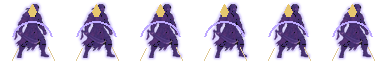
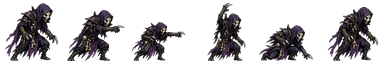
Redo gu mo enemy sprites

diff --git a/tools/cut_task41_gu_mo_sheet.py b/tools/cut_task41_gu_mo_sheet.py
@@ -1,0 +1,134 @@
+#!/usr/bin/env python3
+from pathlib import Path
+from PIL import Image
+
+ROOT = Path(__file__).resolve().parents[1]
+SRC = ROOT / "assets/source/task41/gu_mo_anim_sheet_v1.png"
+ATTACK_SRC = ROOT / "assets/source/task41/gu_mo_attack_sheet_v1.png"
+OUT_DIR = ROOT / "assets/characters/enemies/gu_mo"
+
+FRAME_BOXES = {
+    "idle": [
+        (208, 86, 526, 492),
+        (684, 104, 958, 492),
+        (1156, 86, 1428, 492),
+        (1596, 120, 1938, 492),
+    ],
+    "attack": [
+        (8, 330, 342, 690),
+        (360, 342, 718, 690),
+        (710, 342, 1148, 690),
+        (1104, 260, 1412, 690),
+        (1396, 410, 1768, 690),
+        (1734, 340, 2048, 694),
+    ],
+    "hurt": [
+        (348, 1088, 654, 1444),
+        (834, 1062, 1158, 1444),
+        (1248, 1122, 1582, 1444),
+    ],
+    "death": [
+        (126, 1564, 510, 1870),
+        (514, 1620, 964, 1870),
+        (966, 1682, 1488, 1888),
+        (1498, 1632, 1954, 1888),
+    ],
+}
+
+
+def white_to_alpha(im):
+    im = im.convert("RGBA")
+    px = im.load()
+    for y in range(im.height):
+        for x in range(im.width):
+            r, g, b, a = px[x, y]
+            dist = max(0, 255 - min(r, g, b))
+            if r > 248 and g > 248 and b > 248:
+                px[x, y] = (r, g, b, 0)
+            elif r > 242 and g > 242 and b > 242:
+                px[x, y] = (r, g, b, min(a, dist * 5))
+    return im
+
+
+def remove_small_fragments(im, min_area=20):
+    alpha = im.getchannel("A")
+    w, h = im.size
+    pix = alpha.load()
+    seen = set()
+    comps = []
+    for y in range(h):
+        for x in range(w):
+            if pix[x, y] <= 8 or (x, y) in seen:
+                continue
+            stack = [(x, y)]
+            seen.add((x, y))
+            pts = []
+            while stack:
+                px, py = stack.pop()
+                pts.append((px, py))
+                for nx in (px - 1, px, px + 1):
+                    for ny in (py - 1, py, py + 1):
+                        if nx < 0 or ny < 0 or nx >= w or ny >= h or (nx, ny) in seen:
+                            continue
+                        if pix[nx, ny] > 8:
+                            seen.add((nx, ny))
+                            stack.append((nx, ny))
+            comps.append(pts)
+    keep = set()
+    for pts in comps:
+        if len(pts) >= min_area:
+            keep.update(pts)
+    out = Image.new("RGBA", im.size, (0, 0, 0, 0))
+    src = im.load()
+    dst = out.load()
+    for x, y in keep:
+        dst[x, y] = src[x, y]
+    return out
+
+
+def strip_edge_alpha(im):
+    px = im.load()
+    w, h = im.size
+    for x in range(w):
+        px[x, 0] = px[x, 0][:3] + (0,)
+        px[x, h - 1] = px[x, h - 1][:3] + (0,)
+    for y in range(h):
+        px[0, y] = px[0, y][:3] + (0,)
+        px[w - 1, y] = px[w - 1, y][:3] + (0,)
+    return im
+
+
+def fit_frame(crop, size=64, pad=3, min_area=20):
+    crop = remove_small_fragments(white_to_alpha(crop), min_area=min_area)
+    bbox = crop.getchannel("A").getbbox()
+    out = Image.new("RGBA", (size, size), (0, 0, 0, 0))
+    if not bbox:
+        return out
+    spr = crop.crop(bbox)
+    scale = min((size - pad * 2) / spr.width, (size - pad * 2) / spr.height)
+    nw = max(1, int(spr.width * scale))
+    nh = max(1, int(spr.height * scale))
+    spr = spr.resize((nw, nh), Image.Resampling.LANCZOS)
+    out.alpha_composite(spr, ((size - nw) // 2, size - pad - nh))
+    return strip_edge_alpha(remove_small_fragments(out, min_area=min_area))
+
+
+def join(frames):
+    out = Image.new("RGBA", (64 * len(frames), 64), (0, 0, 0, 0))
+    for i, fr in enumerate(frames):
+        out.alpha_composite(fr, (i * 64, 0))
+    return out
+
+
+def main():
+    sheet = Image.open(SRC).convert("RGBA")
+    attack_sheet = Image.open(ATTACK_SRC).convert("RGBA")
+    OUT_DIR.mkdir(parents=True, exist_ok=True)
+    for anim, boxes in FRAME_BOXES.items():
+        src = attack_sheet if anim == "attack" else sheet
+        frames = [fit_frame(src.crop(box)) for box in boxes]
+        join(frames).save(OUT_DIR / f"{anim}.png")
+
+
+if __name__ == "__main__":
+    main()
